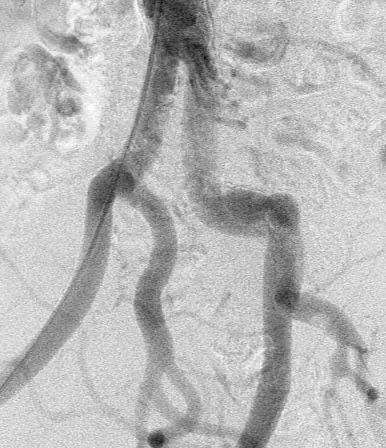
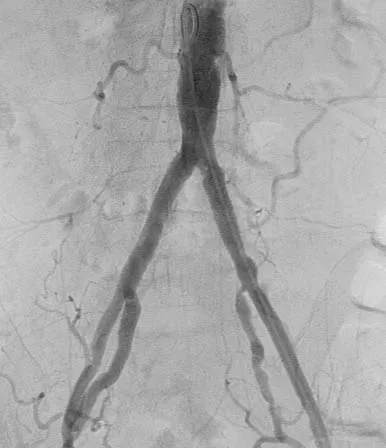
redesign: wipe figure on image 330, green x0 vs red SAM with legend

diff --git a/components/figures/WipeFigure.tsx b/components/figures/WipeFigure.tsx
@@ -4,15 +4,19 @@ import { useEffect, useRef, useState, type CSSProperties } from "react";
 import { InstrumentFigure } from "@/components/manuscript/InstrumentFigure";
 import { copy } from "@/content/copy";
 
-const FALLBACK_RED = { r: 0xe5, g: 0x35, b: 0x2b }; // --color-red-ink, in case the token can't be read live
+/** Fallbacks in case the tokens can't be read live (SSR, or a stripped style). */
+const FALLBACK = {
+  "--color-ok": { r: 0x63, g: 0xc6, b: 0x8c },
+  "--color-red-ink": { r: 0xe5, g: 0x35, b: 0x2b },
+} as const;
 
-function readRedInk(): { r: number; g: number; b: number } {
-  if (typeof document === "undefined") return FALLBACK_RED;
-  const raw = getComputedStyle(document.documentElement)
-    .getPropertyValue("--color-red-ink")
-    .trim();
+type Rgb = { r: number; g: number; b: number };
+
+function readToken(name: keyof typeof FALLBACK): Rgb {
+  if (typeof document === "undefined") return FALLBACK[name];
+  const raw = getComputedStyle(document.documentElement).getPropertyValue(name).trim();
   const match = /^#([0-9a-f]{6})$/i.exec(raw);
-  if (!match) return FALLBACK_RED;
+  if (!match) return FALLBACK[name];
   const hex = match[1];
   return {
     r: parseInt(hex.slice(0, 2), 16),
@@ -22,76 +26,79 @@ function readRedInk(): { r: number; g: number; b: number } {
 }
 
 /**
- * Figure 1 — the wipe: a real angiogram (image 189 from the pelvic-iliac
- * benchmark) with two real segmentation masks laid over it, dragged into
- * comparison.
+ * Recolor a binary mask PNG onto a canvas: vessel pixels become `tint` at
+ * full alpha, background pixels become fully transparent.
+ *
+ * Canvas pixel-recoloring, NOT CSS mask-image: mask-image computes correctly
+ * but silently fails to paint in this repo's headless Firefox (verified in
+ * Task 6 — same family as the documented `omitBackground` gap), so both
+ * layers go through this one code path.
+ *
+ * ⚠ Polarity is DETECTED, not assumed. The exported masks do not share a
+ * convention: image 189's SAM mask was black-vessel-on-white while image
+ * 330's is white-vessel-on-black (measured: white fractions 0.109 and 0.151
+ * for 330's pair). Hardcoding the polarity painted the entire background
+ * red on the first swap. Vessels are always the minority class in these
+ * angiograms, so the side with fewer pixels is the vessel.
+ */
+function paintMask(canvas: HTMLCanvasElement, src: string, tint: Rgb) {
+  const ctx = canvas.getContext("2d");
+  if (!ctx) return;
+  const img = new Image();
+  img.onload = () => {
+    canvas.width = img.naturalWidth;
+    canvas.height = img.naturalHeight;
+    ctx.drawImage(img, 0, 0);
+    const frame = ctx.getImageData(0, 0, canvas.width, canvas.height);
+    const px = frame.data;
+    let white = 0;
+    for (let i = 0; i < px.length; i += 4) if (px[i] > 127) white++;
+    const vesselIsWhite = white < px.length / 8; // minority side is the vessel
+    for (let i = 0; i < px.length; i += 4) {
+      const on = vesselIsWhite ? px[i] > 127 : px[i] < 127;
+      px[i] = tint.r;
+      px[i + 1] = tint.g;
+      px[i + 2] = tint.b;
+      px[i + 3] = on ? 255 : 0;
+    }
+    ctx.putImageData(frame, 0, 0);
+  };
+  img.src = src;
+}
+
+/**
+ * Figure 1 — the wipe: a real angiogram (image 330 from the pelvic-iliac
+ * benchmark, see public/research/provenance.json) with two real segmentation
+ * masks laid over it, dragged into comparison.
+ *
+ * Colors are the owner's call (2026-09-12): GREEN is x0-diffusion, RED is
+ * SAM — an explicit override of the spec-era "red marks the x0 finding" rule
+ * for this figure. The on-image legend and the caption both carry the
+ * mapping in words, so color is never the only carrier.
  *
  * Layer order, bottom to top, all filling the same box:
  * 1. `angiogram.webp` — the base image.
- * 2. `mask_sam.png` — SAM's mask, ALWAYS fully visible, composited with
- *    `mix-blend-mode: multiply`. The PNG is genuinely black-vessel-on-white
- *    (verified: ~24.5% black pixels), so multiply darkens exactly the
- *    pixels SAM calls vessel and leaves the white background a no-op —
- *    neutral, no hue added, which is the "untinted" requirement.
- * 3. The x0-diffusion mask, red-tinted and clipped.
+ * 2. SAM's mask, red, always fully visible.
+ * 3. x0-diffusion's mask, green, clipped by the wipe: at the default
+ *    `--cut: 50%` the box reads half red (left, SAM alone) and half green
+ *    (right, x0 painted over SAM).
  *
- * ⚠ `mask_x0.png` is the OPPOSITE polarity (white vessel on black, ~80%
- * black background; verified), so it can't take SAM's multiply trick — and
- * CSS `mask-image` (the obvious fix, since `mask-mode` should fall back to
- * luminance for a source with no alpha channel) was tried first and is NOT
- * reliable here: verified in a real headless-Firefox screenshot that the
- * masked layer painted as 100% opaque red across the WHOLE box, mask
- * entirely ignored, even though every computed style (`mask-image`,
- * `mask-mode: match-source`, `mask-type: luminance`) reported correctly
- * applied. Same family of trap as this repo's documented Firefox
- * `screenshot({omitBackground})` gap: the property parses and computes but
- * doesn't paint. So this recolors the mask on a `<canvas>` instead — read
- * the PNG's pixels directly, and for each one either write the live
- * `--color-red-ink` value at full alpha (the vessel) or zero alpha (the
- * background). That's pixel-level, has no dependency on mask/blend support,
- * and is verified to render correctly in the same environment.
- *
- * `clip-path: inset(0 0 0 var(--cut))` — the literal form named in the
- * brief, via a CSS custom property rather than a recomputed inline string —
- * is what wipes that canvas. At `--cut: 0%` the inset is zero on every
- * side, so the whole canvas shows; at `--cut: 100%` the inset rectangle has
- * zero width and the canvas disappears entirely, leaving just the
- * angiogram + SAM underneath. Dragging the slider wipes the red
- * x0-diffusion mask away from the left — "cut" is how much of the overlay
- * has been cut away.
+ * `clip-path: inset(0 0 0 var(--cut))` wipes the x0 canvas from the left;
+ * "cut" is how much of the overlay has been cut away.
  */
 export function WipeFigure() {
   const [cut, setCut] = useState(50);
-  const canvasRef = useRef<HTMLCanvasElement>(null);
+  const samRef = useRef<HTMLCanvasElement>(null);
+  const x0Ref = useRef<HTMLCanvasElement>(null);
   const t = copy.research.figWipe;
 
   useEffect(() => {
-    const canvas = canvasRef.current;
-    if (!canvas) return;
-    const ctx = canvas.getContext("2d");
-    if (!ctx) return;
-
-    const img = new Image();
-    img.onload = () => {
-      canvas.width = img.naturalWidth;
-      canvas.height = img.naturalHeight;
-      ctx.drawImage(img, 0, 0);
-      const frame = ctx.getImageData(0, 0, canvas.width, canvas.height);
-      const { r, g, b } = readRedInk();
-      const px = frame.data;
-      for (let i = 0; i < px.length; i += 4) {
-        // Grayscale, no alpha channel: r === g === b. White (vessel, ~255)
-        // becomes opaque red-ink; black (background, ~0) becomes fully
-        // transparent so the layers underneath show through.
-        const on = px[i] > 127;
-        px[i] = r;
-        px[i + 1] = g;
-        px[i + 2] = b;
-        px[i + 3] = on ? 255 : 0;
-      }
-      ctx.putImageData(frame, 0, 0);
-    };
-    img.src = "/research/mask_x0.png";
+    if (samRef.current) {
+      paintMask(samRef.current, "/research/mask_sam.png", readToken("--color-red-ink"));
+    }
+    if (x0Ref.current) {
+      paintMask(x0Ref.current, "/research/mask_x0.png", readToken("--color-ok"));
+    }
   }, []);
 
   const clipStyle = {
@@ -107,14 +114,13 @@ export function WipeFigure() {
           alt={t.angiogramAlt}
           className="absolute inset-0 h-full w-full object-cover"
         />
-        <img
-          src="/research/mask_sam.png"
-          alt=""
+        <canvas
+          ref={samRef}
           aria-hidden
-          className="absolute inset-0 h-full w-full object-cover mix-blend-multiply"
+          className="absolute inset-0 h-full w-full"
         />
         <canvas
-          ref={canvasRef}
+          ref={x0Ref}
           aria-hidden
           className="absolute inset-0 h-full w-full"
           style={clipStyle}
@@ -124,6 +130,18 @@ export function WipeFigure() {
           className="absolute top-0 bottom-0 w-px bg-ink/70"
           style={{ left: `${cut}%` }}
         />
+        {/* The legend is real text, not aria-hidden: it is the one place the
+            color-to-model mapping is stated on the image itself. */}
+        <div className="absolute bottom-2 left-2 flex flex-col gap-1 bg-[rgba(18,17,15,0.78)] px-2 py-1.5 font-mono text-[10px] leading-tight text-ink">
+          <span className="flex items-center gap-1.5">
+            <span aria-hidden className="inline-block size-2 bg-ok" />
+            {t.legendX0}
+          </span>
+          <span className="flex items-center gap-1.5">
+            <span aria-hidden className="inline-block size-2 bg-red-ink" />
+            {t.legendSam}
+          </span>
+        </div>
       </div>
       <label
         htmlFor="wipe-cut"

diff --git a/content/copy.ts b/content/copy.ts
@@ -204,9 +204,15 @@ export const copy = {
      *  interface (`components/figures/WipeFigure.tsx` updated to match). */
     figWipe: {
       caption:
-        "Real segmentation masks on image 189 from the pelvic-iliac angiography benchmark. x0-diffusion trained on 16 labels; SAM is zero-shot and never trains on any. Drag to compare: x0-diffusion (red) scores 0.866 Dice on this image against SAM’s 0.774.",
+        "Real segmentation masks on image 330 from the pelvic-iliac angiography benchmark. x0-diffusion trained on 16 labels; SAM is zero-shot and never trains on any. Drag to compare: x0-diffusion (green) scores 0.908 Dice on this image against SAM’s 0.832 (red).",
       angiogramAlt:
-        "Pelvic-iliac angiogram, image 189 from the segmentation benchmark",
+        "Pelvic-iliac angiogram, image 330 from the segmentation benchmark",
+      /** On-image legend. Colors chosen by the owner (2026-09-12): green is
+       *  x0's mask, red is SAM's — an explicit override of the spec-era
+       *  "red marks the x0 finding" rule for THIS figure. Color is not the
+       *  only carrier: the legend text and caption name both models. */
+      legendX0: "x0-diffusion",
+      legendSam: "SAM",
       label: "wipe",
       cutLabel: "cut",
       ariaPre:
